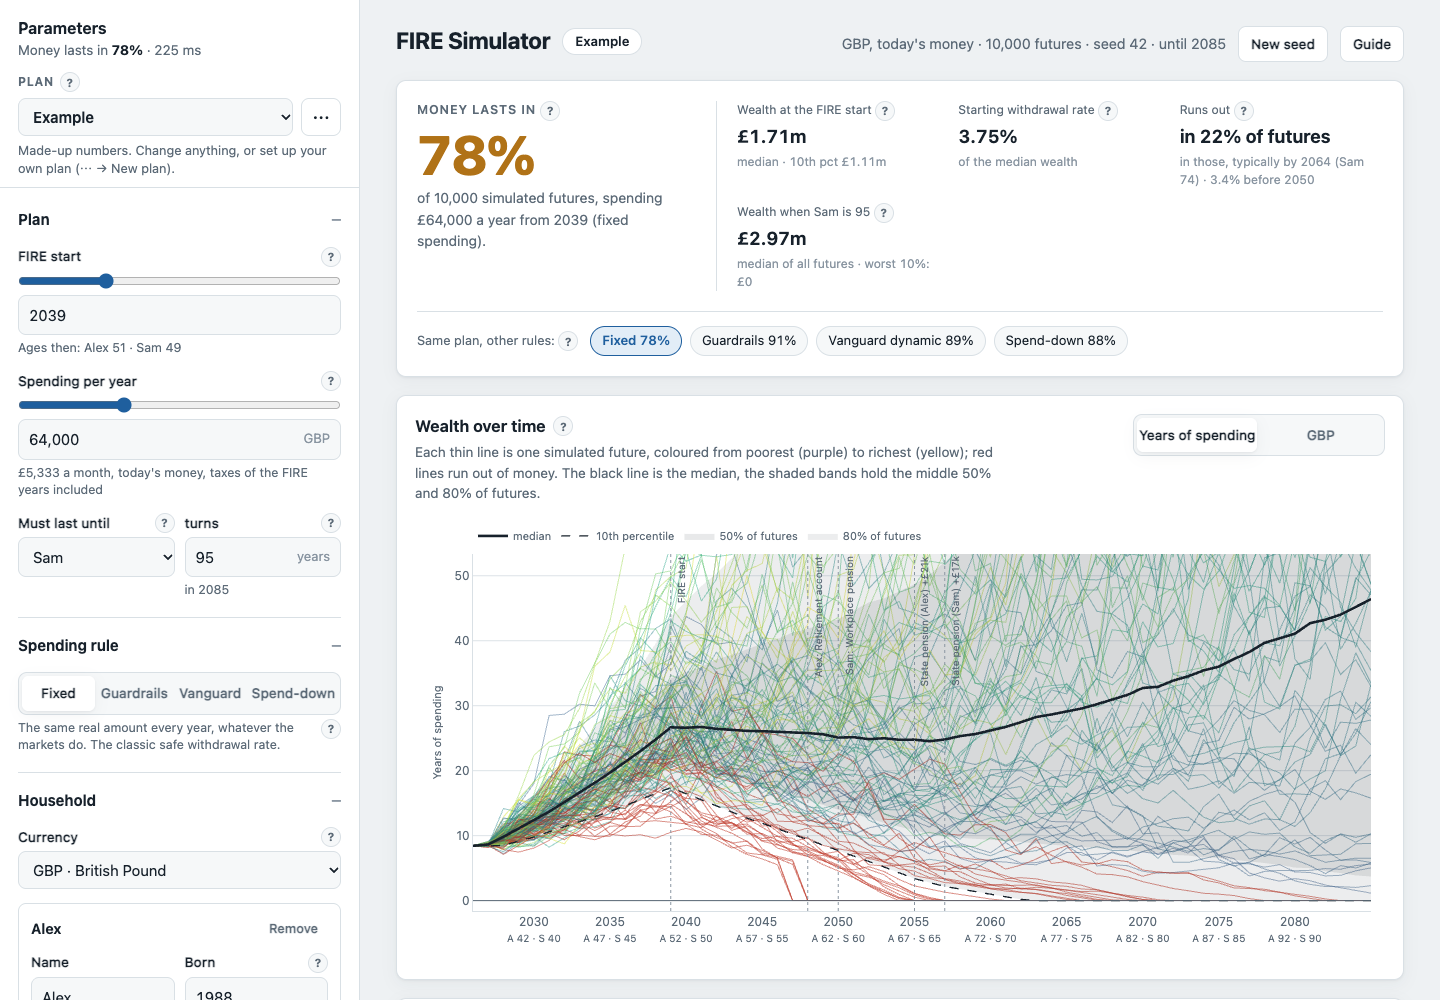
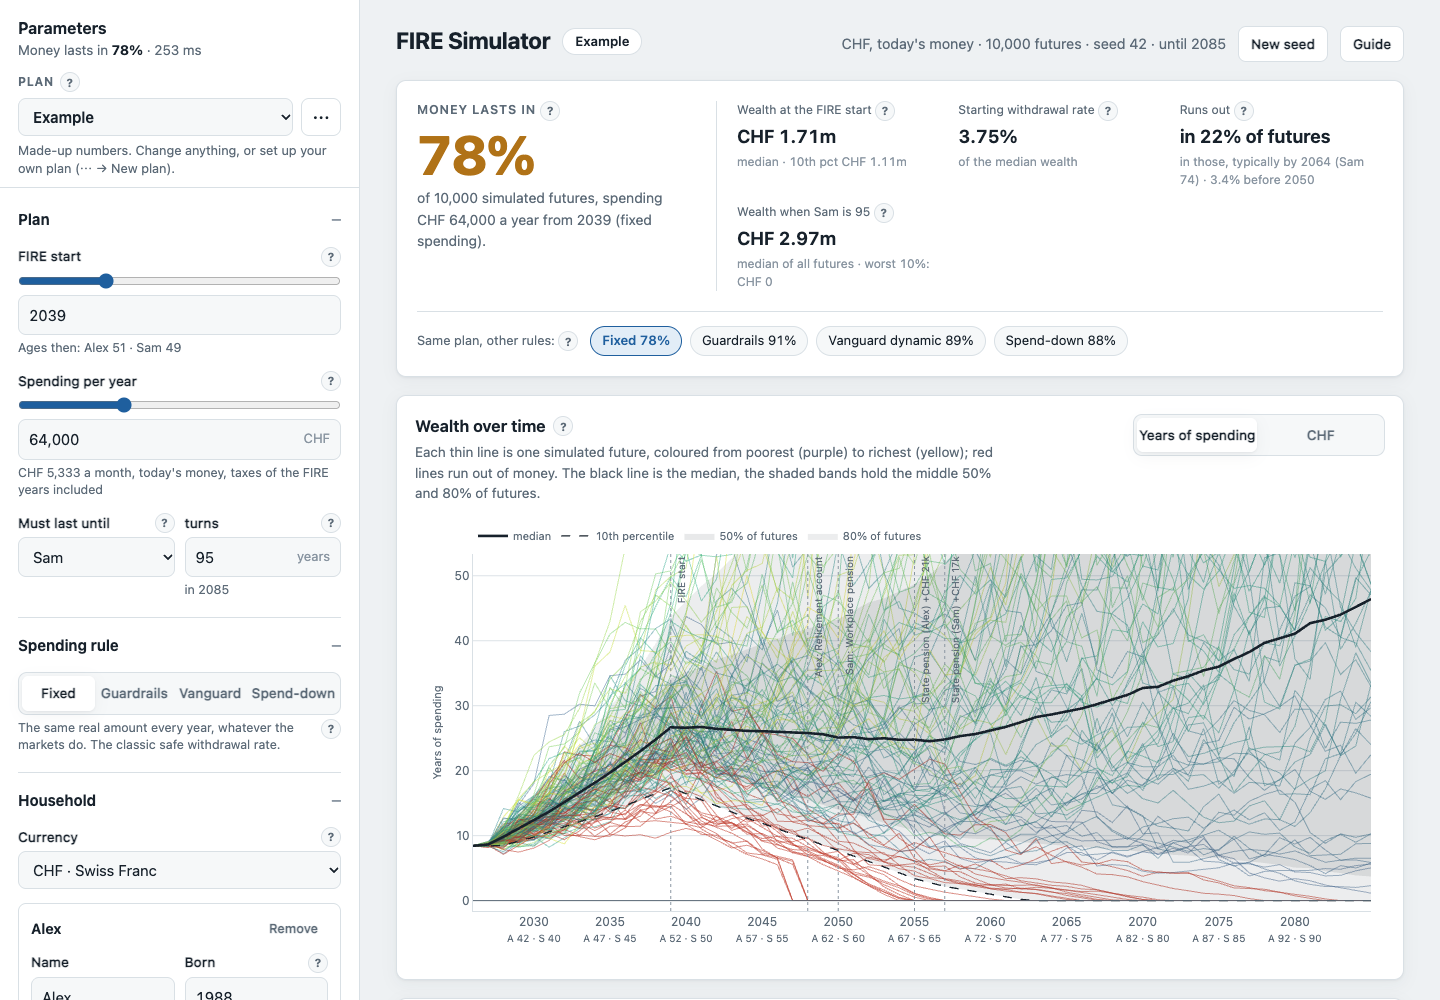
CHF by default, a backup reminder, the Netlify badge allowed
- New plans and the example start in CHF (DEFAULT_CURRENCY in js/plan.js)
  instead of a currency guessed from the browser's region.
- Setup dialog: with four people, "Add person" printed "null" where the
  button had been (replaceChildren turns null into text). It's now a
  disabled button, as in the panel.
- Saved plans can be cleared by the browser (Safari after 7 days without a
  visit, private windows, low space). On the first save the page asks for
  persistent storage, and a note under the plan bar, with an Export button,
  shows while saved changes aren't in an exported file. New "Backups" help.
- _headers allows the inline script of the badge Netlify's free plan
  injects, by its hash.
- README: the live address and Netlify's status badge; screenshots in CHF.

diff --git a/js/app.js b/js/app.js
@@ -1,9 +1,10 @@
 // The page: the parameter form, the plans kept in this browser, and the charts. The numbers come
 // from workers running the model (engine.js, views.js); nothing here talks to a server.
 import { RULE_NAMES, endYear, personById, real, yearOf } from "./engine.js";
-import { CURRENCIES, LOCALES, currencyName, guessCurrency, makeFormat } from "./format.js";
+import { CURRENCIES, LOCALES, currencyName, makeFormat } from "./format.js";
 import { GUIDE, HELP } from "./help.js";
 import {
+  DEFAULT_CURRENCY,
   LIMITS,
   RULE_DEFAULTS,
   bandAround,
@@ -69,7 +70,9 @@ let settings = store.loadSettings(); // the viewer's: seed, number of futures, n
 settings.seed = Number.isInteger(settings.seed) && settings.seed >= 0 ? settings.seed % 2 ** 31 : 42;
 settings.n_sims = Number.isInteger(settings.n_sims) ? Math.min(Math.max(settings.n_sims, 500), 50_000) : 10_000;
 if (typeof settings.locale !== "string") settings.locale = "";
-let fmt = makeFormat(settings.locale, "USD");
+let fmt = makeFormat(settings.locale, DEFAULT_CURRENCY);
+let exported = store.loadExported(); // when the plans were last exported to a file, 0 if never
+let keepAsked = false;
 let plans = []; // the saved plans: [{ id, name, plan, updated, example }]
 let base = null; // { id, name, values }: the saved plan the values on screen started from
 let state = null; // the plan on screen, unsaved changes included
@@ -99,7 +102,7 @@ function helpBtn(key) {
 function openDialog(title, body, wide = false) {
   $("#help-title").textContent = title;
   const b = $("#help-body");
-  b.replaceChildren(...body);
+  b.replaceChildren(...body.filter((x) => x != null && x !== false));
   b.scrollTop = 0;
   const d = $("#help-dialog");
   d.classList.toggle("wide", wide);
@@ -788,7 +791,12 @@ const MOD_S = /Mac|iPhone|iPad/.test(navigator.platform || navigator.userAgent) 
 const edits = () => differences(base.values, state);
 
 function persistPlans() {
-  if (!store.savePlans(plans) && canStore) storageProblem();
+  const ok = store.savePlans(plans);
+  if (!ok && canStore) storageProblem();
+  if (ok && !keepAsked && plans.some((p) => !p.example)) {
+    keepAsked = true; // once per visit: Firefox asks the viewer, the others decide on their own
+    store.keepStorage();
+  }
 }
 function persistSession() {
   store.saveSession({ current: base.id, working: state });
@@ -969,7 +977,7 @@ function openSetup() {
   const now = today();
   const y = now.getFullYear();
   const people = [{ name: "Me", born: y - 35, pension: "", age: 67 }];
-  const money = { currency: state?.currency ?? guessCurrency(), portfolio: "", cash: "", contrib: "", spending: "", fire: String(y + 15), name: uniqueName("My plan") };
+  const money = { currency: state?.currency ?? DEFAULT_CURRENCY, portfolio: "", cash: "", contrib: "", spending: "", fire: String(y + 15), name: uniqueName("My plan") };
   const wrap = $("#setup-fields");
   const f = () => makeFormat(settings.locale, money.currency);
   const field = (label, input, hint) => el("label", { class: "setup-field" }, el("span", { text: label }), input, hint ? el("small", { text: hint }) : null);
@@ -994,7 +1002,7 @@ function openSetup() {
         field("Currency", cur)),
       el("h3", { text: "Who's in the household" }),
       ...rows,
-      people.length < LIMITS.people ? el("button", { type: "button", class: "btn small", onclick: () => { people.push({ name: `Person ${people.length + 1}`, born: String(y - 35), pension: "", age: 67 }); render(); } }, "Add person") : null,
+      el("button", { type: "button", class: "btn small", disabled: people.length >= LIMITS.people, title: people.length >= LIMITS.people ? `A plan holds up to ${LIMITS.people} people.` : null, onclick: () => { people.push({ name: `Person ${people.length + 1}`, born: String(y - 35), pension: "", age: 67 }); render(); } }, "Add person"),
       el("h3", { text: "Money" }),
       el("div", { class: "setup-grid" },
         field(`Invested today (${money.currency})`, text(money, "portfolio", { inputmode: "decimal", placeholder: "0" }), "funds, shares: what you could sell"),
@@ -1112,6 +1120,9 @@ function download(name, text) {
 function exportPlans() {
   const f = store.exportFile(plans);
   download(f.name, f.text);
+  exported = Date.now();
+  store.saveExported(exported);
+  renderPlanBar();
   toast(`Exported ${plans.length} plan${plans.length > 1 ? "s" : ""}.${edits().length ? " Unsaved changes aren't in the file: save them first." : ""}`);
 }
 async function importPlans(file) {
@@ -1199,6 +1210,22 @@ function renderPlanBar() {
   if (edited.length) pill.append(el("span", { class: "pill-edited", text: "edited" }));
   pill.setAttribute("aria-label", `Plan: ${base.name}${edited.length ? ", edited" : ""}`);
   $("#welcome").classList.toggle("hidden", !(saved?.example && !settings.welcomeClosed));
+  renderBackup();
+}
+
+// Saved plans live in this browser only, and browsers can clear them. Until an exported file holds
+// the latest saves, a reminder sits under the plan bar (not when storage doesn't work at all: the
+// notice about that says more).
+function renderBackup() {
+  const own = plans.filter((p) => !p.example);
+  const newer = own.filter((p) => (p.updated ?? Infinity) > exported);
+  const box = $("#backup");
+  box.hidden = !canStore || !newer.length;
+  if (box.hidden) return;
+  const day = (t) => new Intl.DateTimeFormat(fmt.locale, { dateStyle: "medium" }).format(new Date(t));
+  $("#backup-text").textContent = exported
+    ? `Saved changes since your last backup (${day(exported)}).`
+    : "Your plans are only in this browser. Keep a backup file.";
 }
 
 function wireMenu() {
@@ -1736,6 +1763,7 @@ function wire() {
   $("#plan-select").addEventListener("change", (e) => switchTo(e.target.value));
   $("#plan-save").addEventListener("click", saveCurrent);
   $("#plan-revert").addEventListener("click", revert);
+  $("#backup-export").addEventListener("click", exportPlans);
   wireMenu();
   $("#plan-pill").addEventListener("click", () => {
     if (isPhone()) $("#rail").classList.add("open");
@@ -1784,6 +1812,11 @@ function wire() {
   // Another tab saved, renamed or deleted plans: pick up the list, and the plan on screen if it has
   // no unsaved changes here.
   window.addEventListener("storage", (e) => {
+    if (e.key === store.BACKUP_KEY) {
+      exported = store.loadExported();
+      if (base) renderBackup();
+      return;
+    }
     if (e.key !== store.PLANS_KEY || !base) return;
     const hadEdits = edits().length > 0;
     plans = loadPlans();
@@ -1819,7 +1852,7 @@ function start() {
   canStore = store.storageWorks();
   plans = loadPlans();
   if (!plans.length) {
-    addPlan("Example", examplePlan({ currency: guessCurrency() }), { example: true });
+    addPlan("Example", examplePlan(), { example: true });
   }
   const session = store.loadSession();
   const current = planById(session?.current) ?? [...plans].sort((a, b) => (b.updated ?? 0) - (a.updated ?? 0))[0];

diff --git a/js/help.js b/js/help.js
@@ -39,7 +39,8 @@ export const HELP = {
       type is sent anywhere, there are no accounts and no tracking.</p>
       <ul>
         <li>Plans are kept in <b>this browser</b> (its local storage). Clearing the site's data,
-          or a private window, loses them: use <b>Export plans</b> to keep a copy.</li>
+          a private window, or Safari's clean-up of sites you haven't visited lately loses them: use
+          <b>Export plans</b> to keep a copy.</li>
         <li>To move plans to another device, export them there and import the file.</li>
         <li>A <b>share link</b> carries one plan inside the link itself, after the "#": browsers
           never send that part to the site. Whoever gets the link can see the numbers.</li>
@@ -63,6 +64,23 @@ export const HELP = {
       </ul>
       <p>The random seed and the number of futures aren't part of a plan: switching keeps the same
       futures, so the comparison is fair.</p>`,
+  },
+  backup: {
+    title: "Backups",
+    html: `<p>Saved plans live in this browser's storage, on this device only. Browsers can clear it:</p>
+      <ul>
+        <li>clearing the browsing data or the site's data;</li>
+        <li>a private window, when it closes;</li>
+        <li><b>Safari</b> (on a Mac, iPhone or iPad) deletes a site's data once you've used it for
+          7 days without visiting the site, unless you added the site to the Home Screen;</li>
+        <li>some browsers free space when the device runs low.</li>
+      </ul>
+      <p>When you first save, the page asks the browser to keep its storage for good (Firefox asks
+      you; Chrome and Edge decide on their own). That protects against the last case, not the
+      others.</p>
+      <p><b>Export plans</b> writes every plan to a file: the only backup that survives a cleared
+      browser or a lost device. A note under the plan reminds you when saved changes aren't in an
+      exported file yet. To restore, use <b>Import plans</b>.</p>`,
   },
   share: {
     title: "Share link",
@@ -525,7 +543,7 @@ export const HELP = {
 
 export const GUIDE = [
   ["Basics", ["concept.todays-money", "concept.monte-carlo", "concept.sequence", "concept.swr", "concept.privacy"]],
-  ["Plans", ["plans", "share", "files"]],
+  ["Plans", ["plans", "backup", "share", "files"]],
   ["Plan", ["fire_year", "spending", "end_person"]],
   ["Spending rules", ["rule.fixed", "rule.guardrails", "rule.vanguard", "rule.spenddown", "rule.floor",
     "rule.ceiling", "rule.band", "rule.adjust", "rule.up", "rule.down", "rule.assumed_return",

diff --git a/js/plan.js b/js/plan.js
@@ -8,6 +8,8 @@
  */
 
 export const SCHEMA = 1;
+/** New plans and the example start in this currency; anyone can pick another. */
+export const DEFAULT_CURRENCY = "CHF";
 export const LIMITS = { people: 4, accounts: 12, income: 12, events: 20, years: 120 };
 
 export const RULE_DEFAULTS = {
@@ -39,7 +41,7 @@ export function roundish(x) {
 /** A floor and ceiling for the flexible rules, around a spending. */
 export const bandAround = (spending) => ({ floor: roundish(spending * 0.8), ceiling: roundish(spending * 1.25) });
 
-export function blankPlan({ currency = "USD", today = new Date() } = {}) {
+export function blankPlan({ currency = DEFAULT_CURRENCY, today = new Date() } = {}) {
   const y = today.getFullYear();
   return {
     schema: SCHEMA,
@@ -78,7 +80,7 @@ export function blankPlan({ currency = "USD", today = new Date() } = {}) {
 }
 
 /** A made-up household, to show what the simulator does before anyone types in their own. */
-export function examplePlan({ currency = "USD", today = new Date() } = {}) {
+export function examplePlan({ currency = DEFAULT_CURRENCY, today = new Date() } = {}) {
   const y = today.getFullYear();
   const p = blankPlan({ currency, today });
   const alex = { id: "alex", name: "Alex", birth_year: y - 38 };
@@ -132,7 +134,7 @@ const list = (v, max) => (Array.isArray(v) ? v.filter((x) => x && typeof x === "
  * sane bounds, references pointing at people who exist. Unknown fields are dropped. It does not
  * judge whether the plan makes sense: that's `problems()`.
  */
-export function normalize(raw, { currency = "USD", today = new Date() } = {}) {
+export function normalize(raw, { currency = DEFAULT_CURRENCY, today = new Date() } = {}) {
   const r = raw && typeof raw === "object" ? raw : {};
   const d = blankPlan({ currency, today });
   const ids = new Set();

diff --git a/js/store.js b/js/store.js
@@ -8,8 +8,10 @@ const KEYS = {
   session: "fire-sim.session.v1", // { current, working }: the plan on screen, unsaved changes included
   settings: "fire-sim.settings.v1", // { seed, n_sims, locale }: the viewer's, not part of any plan
   groups: "fire-sim.groups.v1", // which form sections are open
+  backup: "fire-sim.backup.v1", // { exported }: when the plans were last exported to a file
 };
 export const PLANS_KEY = KEYS.plans;
+export const BACKUP_KEY = KEYS.backup;
 
 function read(key, fallback) {
   try {
@@ -50,6 +52,26 @@ export const loadSettings = () => ({ seed: 42, n_sims: 10_000, locale: "", ...re
 export const saveSettings = (s) => write(KEYS.settings, s);
 export const loadGroups = () => read(KEYS.groups, {});
 export const saveGroups = (g) => write(KEYS.groups, g);
+/** When the plans were last exported (ms since 1970), 0 if never. */
+export const loadExported = () => {
+  const t = read(KEYS.backup, {})?.exported;
+  return Number.isFinite(t) && t > 0 ? t : 0;
+};
+export const saveExported = (t) => write(KEYS.backup, { exported: t });
+
+/**
+ * Ask the browser to keep this site's storage for good, instead of clearing it when space runs low.
+ * The browser decides (Chrome and Edge from how the site is used, Firefox by asking); nothing breaks
+ * if it says no, and only an exported file survives a lost device or cleared browser data.
+ */
+export async function keepStorage() {
+  try {
+    if (!navigator.storage?.persist) return false;
+    return (await navigator.storage.persisted()) || (await navigator.storage.persist());
+  } catch {
+    return false;
+  }
+}
 
 // ---- files ---------------------------------------------------------------------------------------
 

diff --git a/js/format.js b/js/format.js
@@ -20,22 +20,6 @@ export const LOCALES = [
   }),
 ];
 
-// A currency for someone's region, for the example plan only (its amounts suit these currencies).
-const REGION_CURRENCY = {
-  US: "USD", GB: "GBP", CH: "CHF", LI: "CHF", CA: "CAD", AU: "AUD", NZ: "NZD", SG: "SGD", IE: "EUR",
-  DE: "EUR", AT: "EUR", FR: "EUR", IT: "EUR", ES: "EUR", PT: "EUR", NL: "EUR", BE: "EUR", LU: "EUR",
-  FI: "EUR", GR: "EUR", SK: "EUR", SI: "EUR", EE: "EUR", LV: "EUR", LT: "EUR", HR: "EUR", MT: "EUR", CY: "EUR",
-};
-export function guessCurrency(languages = globalThis.navigator?.languages ?? []) {
-  for (const tag of languages) {
-    try {
-      const region = new Intl.Locale(tag).maximize().region;
-      if (REGION_CURRENCY[region]) return REGION_CURRENCY[region];
-    } catch { /* not a locale tag */ }
-  }
-  return "USD";
-}
-
 export function currencyName(code, locale) {
   try {
     return new Intl.DisplayNames(locale || undefined, { type: "currency" }).of(code);

diff --git a/app.css b/app.css
@@ -512,6 +512,20 @@ h3 .help { margin-left: 4px; position: relative; top: -1px; }
   overflow: hidden;
 }
 .scenario-state.dirty { color: var(--ink); }
+/* Saved plans that no exported file holds yet: a quiet reminder with its own button. */
+.backup {
+  display: flex;
+  align-items: center;
+  gap: 8px;
+  margin-top: 8px;
+  padding: 6px 8px 6px 10px;
+  border-radius: 8px;
+  background: var(--warn-soft);
+  font-size: 0.8rem;
+  line-height: 1.35;
+}
+.backup[hidden] { display: none; }
+.backup-text { flex: 1; min-width: 0; }
 .scenario-state.error { color: var(--bad); }
 /* One mark for "changed, not saved": a dot on the status, the edited fields and their sections. */
 .scenario-state.dirty::before,

diff --git a/index.html b/index.html
@@ -53,6 +53,11 @@
           <button class="btn quiet" id="plan-revert" type="button" hidden>Revert</button>
           <button class="btn primary" id="plan-save" type="button" hidden>Save</button>
         </div>
+        <div class="backup" id="backup" hidden>
+          <span class="backup-text" id="backup-text"></span>
+          <button class="btn small" id="backup-export" type="button">Export</button>
+          <button class="help" type="button" data-help="backup" aria-label="Explain: Backups">?</button>
+        </div>
       </div>
     </div>
     <div class="rail-body">

diff --git a/README.md b/README.md
@@ -1,6 +1,10 @@
 # FIRE Simulator
 
+[![Netlify Status](https://api.netlify.com/api/v1/badges/6ca755ce-1990-4b56-9f06-9c9f27a4ae04/deploy-status)](https://app.netlify.com/projects/fire-simulator-324/deploys)
+
 **When can you stop working, and how much can you spend once you do?**
+
+**Try it: [fire-simulator-324.netlify.app](https://fire-simulator-324.netlify.app)**
 
 A Monte Carlo simulator for FIRE plans (financial independence, retire early). It plays out
 thousands of possible futures for your savings, retirement accounts and pensions, then tells you
@@ -43,7 +47,8 @@ device.
 
 ## What you can model
 
-- **Household**: one to four people with their birth years. The plan runs until one of them
+- **Household**: one to four people with their birth years, and the currency (CHF unless you pick
+  another). The plan runs until one of them
   reaches an age you choose (95 by default). Charts label the years with everyone's age.
 - **Money**: investments, cash, and what you save each year until you stop. Savings can grow
   faster than inflation, for example with raises. You can also keep a few years of spending in cash
@@ -113,11 +118,19 @@ Numbers can be typed in the format you're used to: `1,234,567`, `1.234.567`, `1'
 
 There is no account, no server-side code, no analytics and no request to anyone else. Even the
 chart library is served with the site, and a strict Content-Security-Policy (`_headers`) stops the
-page from loading anything from elsewhere.
+page from loading anything from elsewhere. (On Netlify's free plan, Netlify adds its own badge to
+the page. It's drawn from a script on the same site and makes no requests either.)
 
-- **Saved plans** live in your browser's local storage, on this device only. A private window,
-  or clearing the site's data, loses them. The page warns you when the browser isn't keeping what
-  it saves.
+- **Saved plans** live in your browser's local storage, on this device only. Browsers can clear
+  that storage:
+  - when you clear the browsing data, or close a private window;
+  - in Safari, after 7 days of use without a visit to the site, unless you added it to the Home
+    Screen;
+  - in some browsers, when the device runs low on space.
+
+  On the first save, the page asks the browser to keep its storage for good. That covers the
+  low-space case. Until an exported file holds your latest saves, a note under the plan reminds
+  you to export. The page also warns you when the browser isn't keeping what it saves at all.
 - **Export plans** downloads every plan as a JSON file. That file is your backup, and also the way
   to move plans to another device or browser.
 - **Import plans** adds a file's plans to the ones already there, and never replaces anything.
@@ -155,6 +168,9 @@ The repository *is* the site: publish its root folder. There is no build command
 - *From Git*: *Add new site → Import an existing project*, then pick the repository (private ones
   work on the free plan). `netlify.toml` already says to publish the root with no build, so leave
   the build settings empty. Every push to the main branch deploys.
+- *The badge*: on the free plan, Netlify adds a "hosted on Netlify" badge to every page. Its one
+  inline script is allowed in `_headers` by its hash. If Netlify changes that script, the badge
+  stops showing, and the browser console names the new hash to put in `_headers`.
 - *Without Git*: drag the folder onto [Netlify Drop](https://app.netlify.com/drop). Or install
   the CLI (`npm install -g netlify-cli`) and run `netlify deploy --prod --dir .`.
 
@@ -283,6 +299,7 @@ node --test tests/             # Node 20 or newer; no packages to install
 
 ### Notes for changes
 
+- **The default currency** is `DEFAULT_CURRENCY` in `js/plan.js`.
 - **Plans are versioned** (`schema` in `js/plan.js`). Anything loaded from storage, a file or a
   link goes through `normalize()`, which fills in missing fields, clamps values and repairs
   references. A new field needs a default there.
